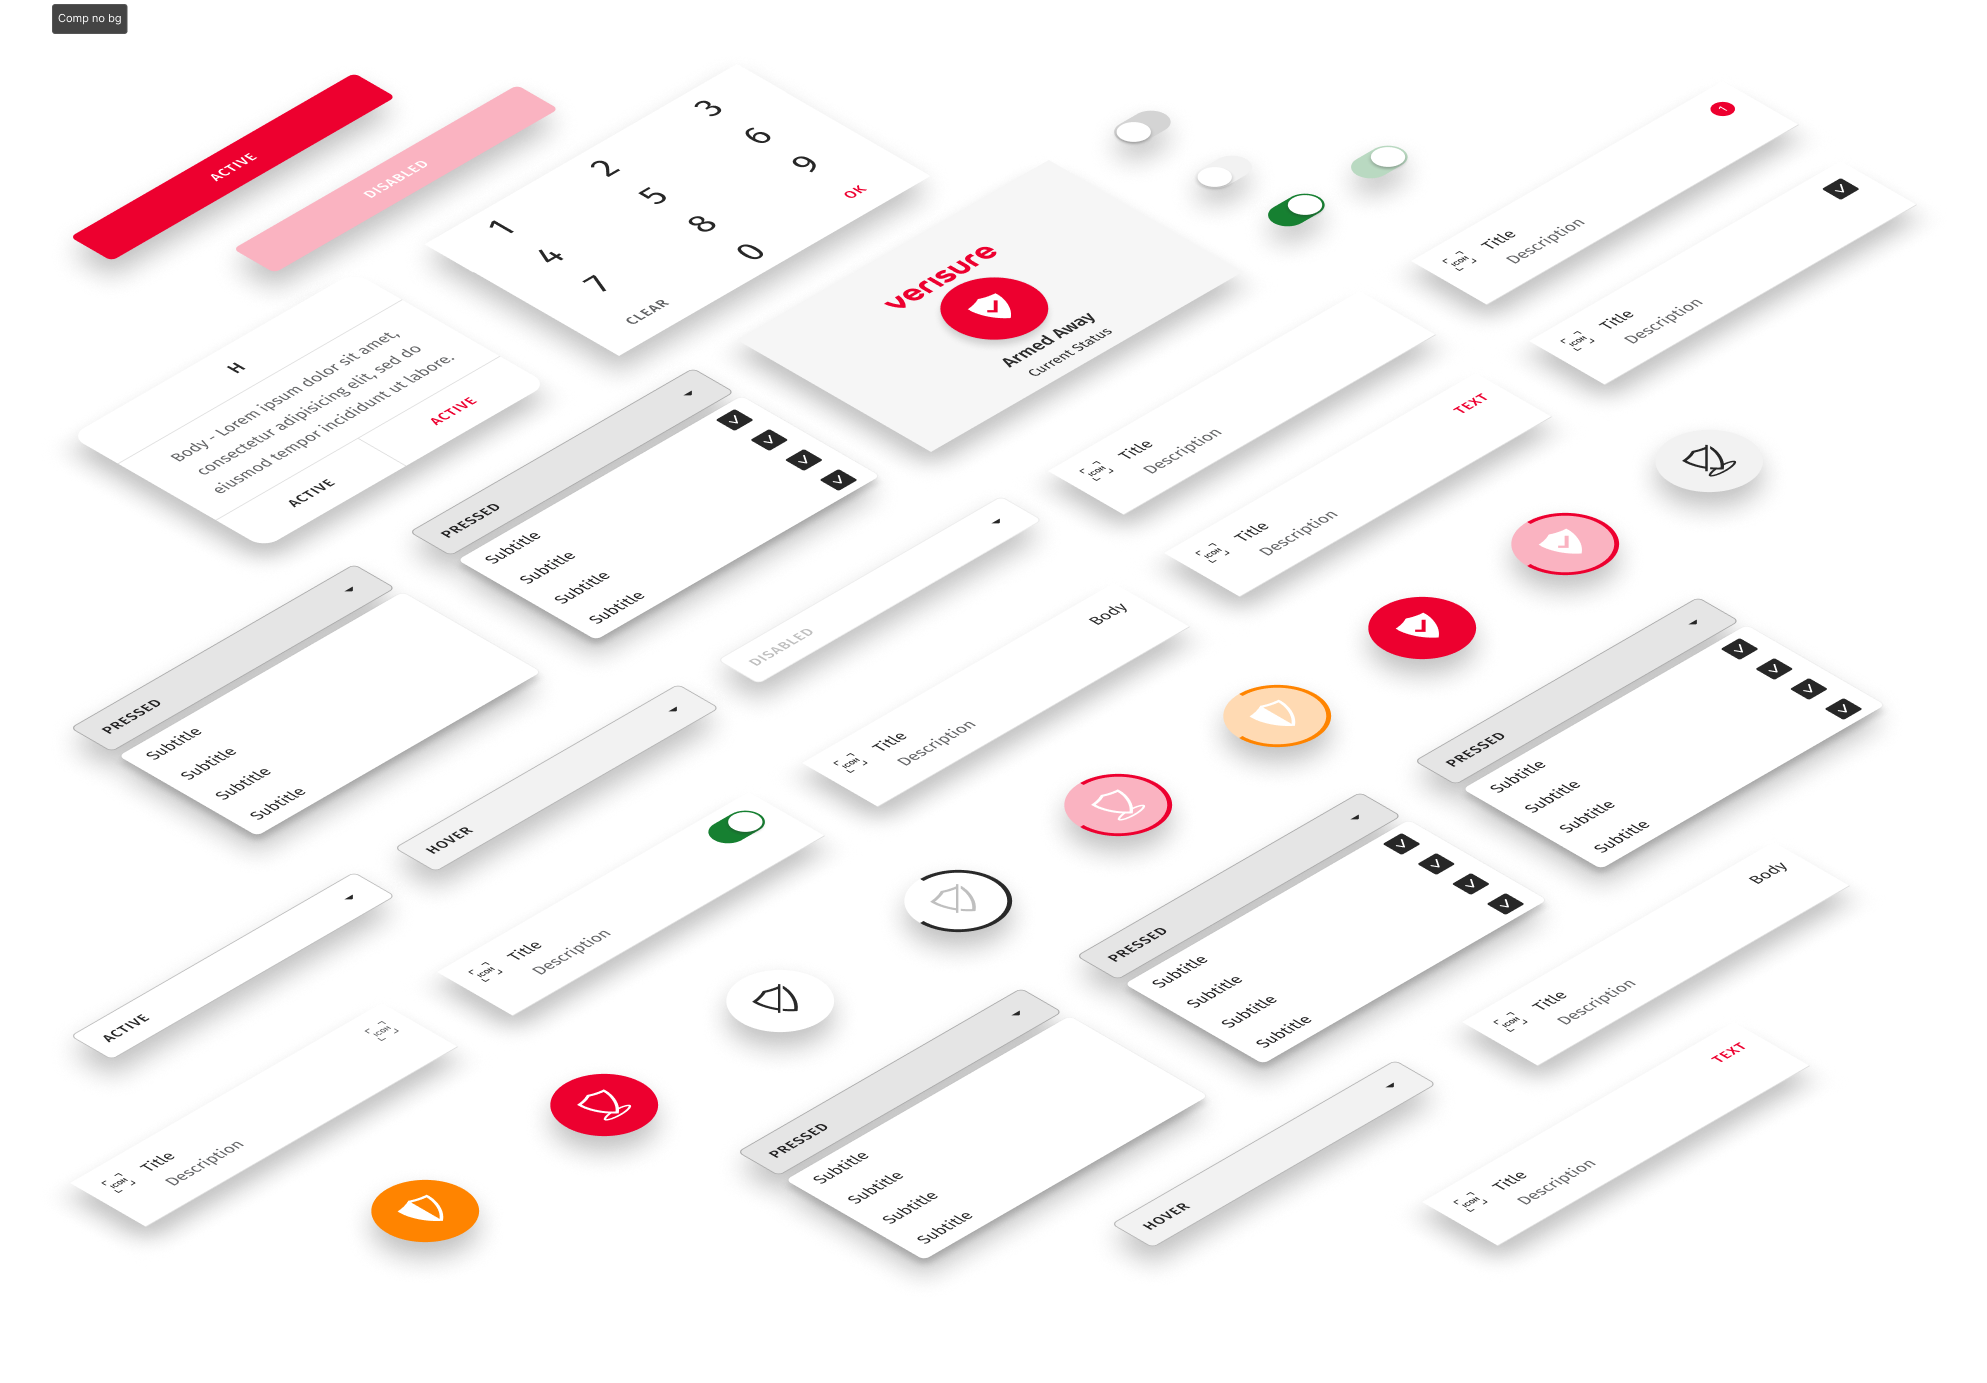
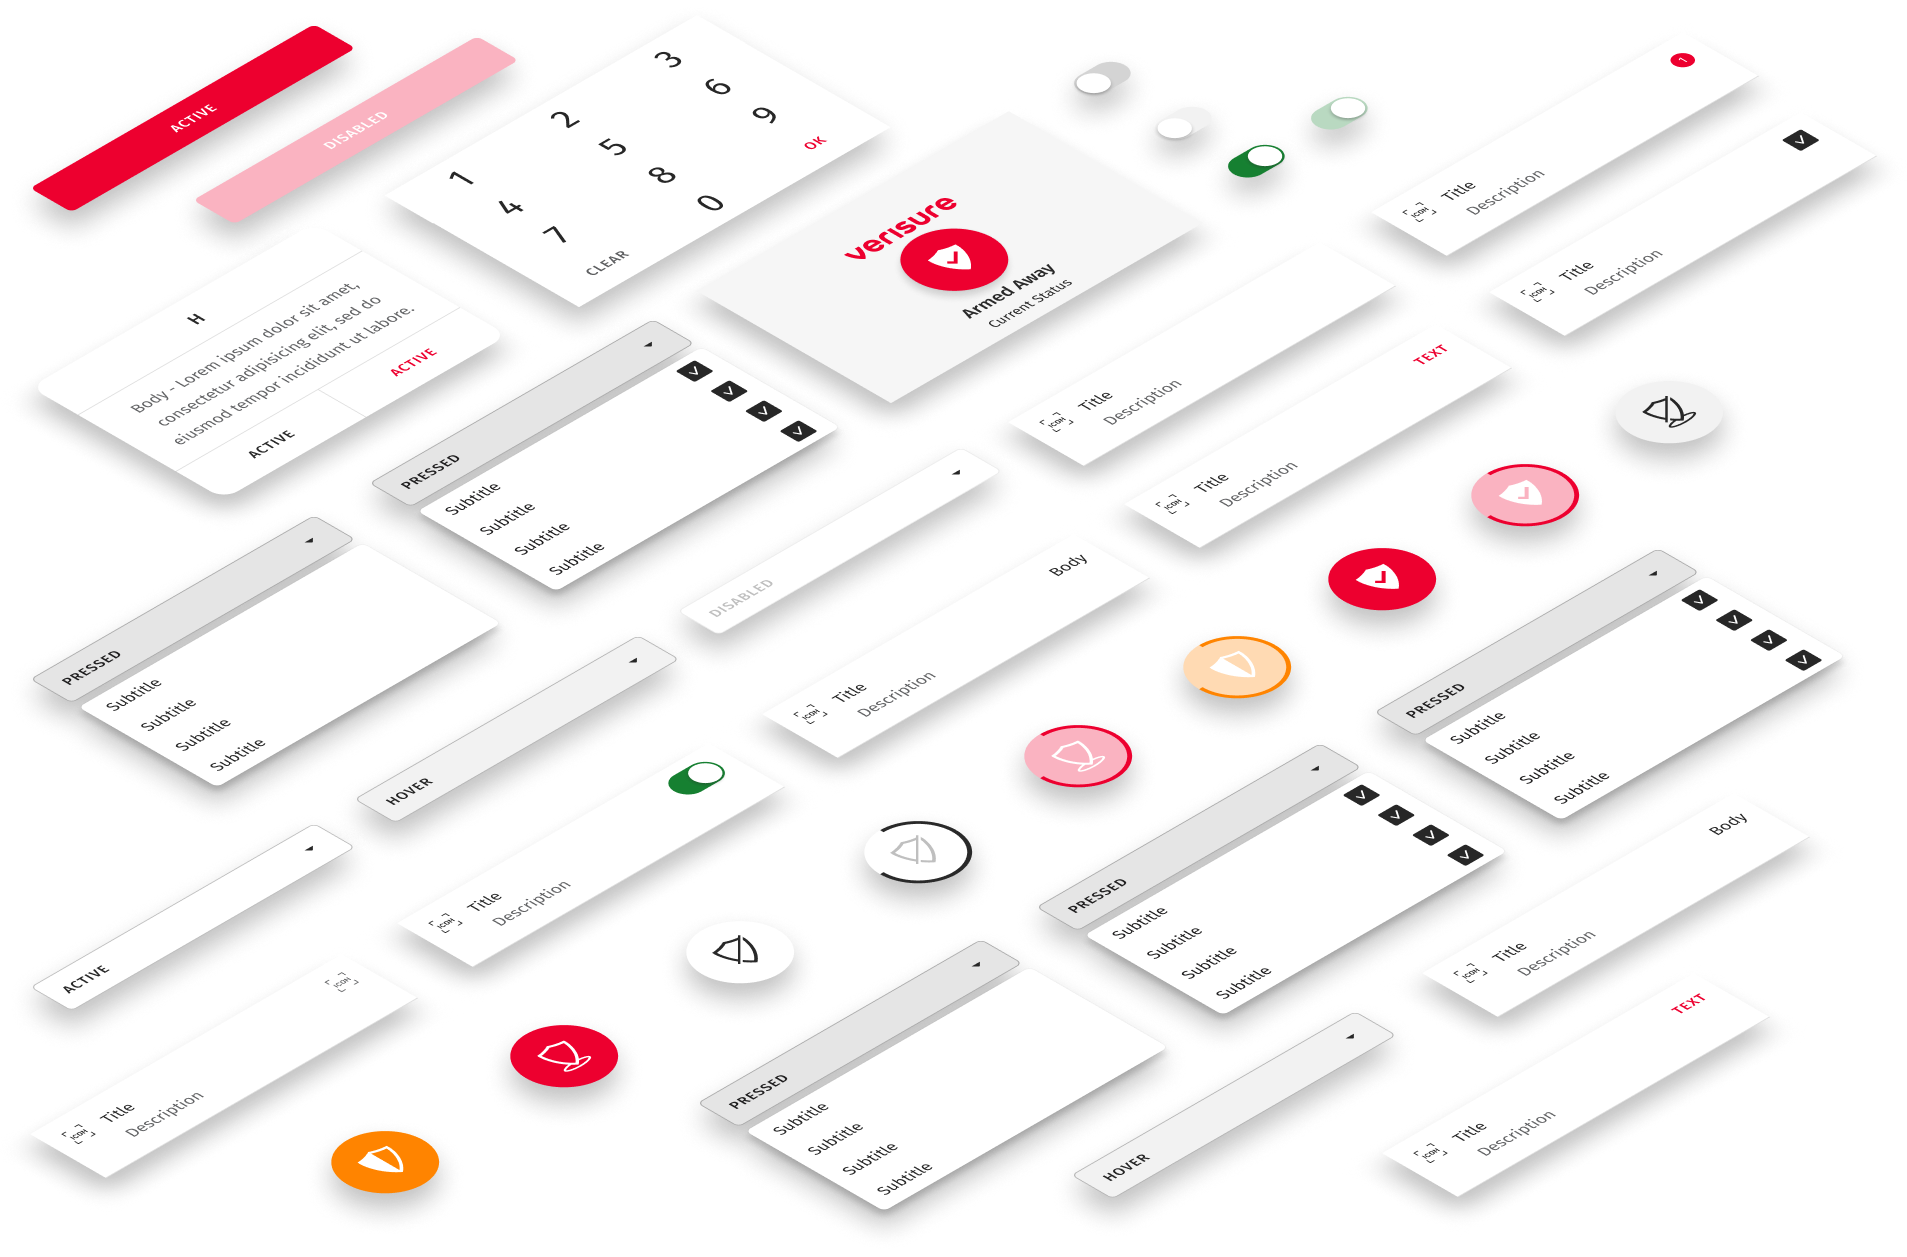
Update DS-components image and maximise hero image column

diff --git a/src/content/config.ts b/src/content/config.ts
@@ -32,6 +32,8 @@ const projects = defineCollection({
     finalProductionSideBySide: z.boolean().optional(),
     // Text shown in the left column when using side-by-side layout
     finalProductionText: z.array(z.string()).optional(),
+    // Expand the hero image column to maximum width
+    heroImageLarge: z.boolean().optional(),
     // Hide the default meta rows in the hero section left column
     hideMetaSections: z.boolean().optional(),
     // Custom content sections rendered in the left column instead of meta rows

diff --git a/src/content/projects/design-systems.md b/src/content/projects/design-systems.md
@@ -11,6 +11,7 @@ heroImage: /images/DS-components.png
 finalProductionImages:
   - /images/design-systems-final-01.png
 processImage: /images/design-systems-process.png
+heroImageLarge: true
 hideMetaSections: true
 heroLeftSections:
   - heading: "Overview"